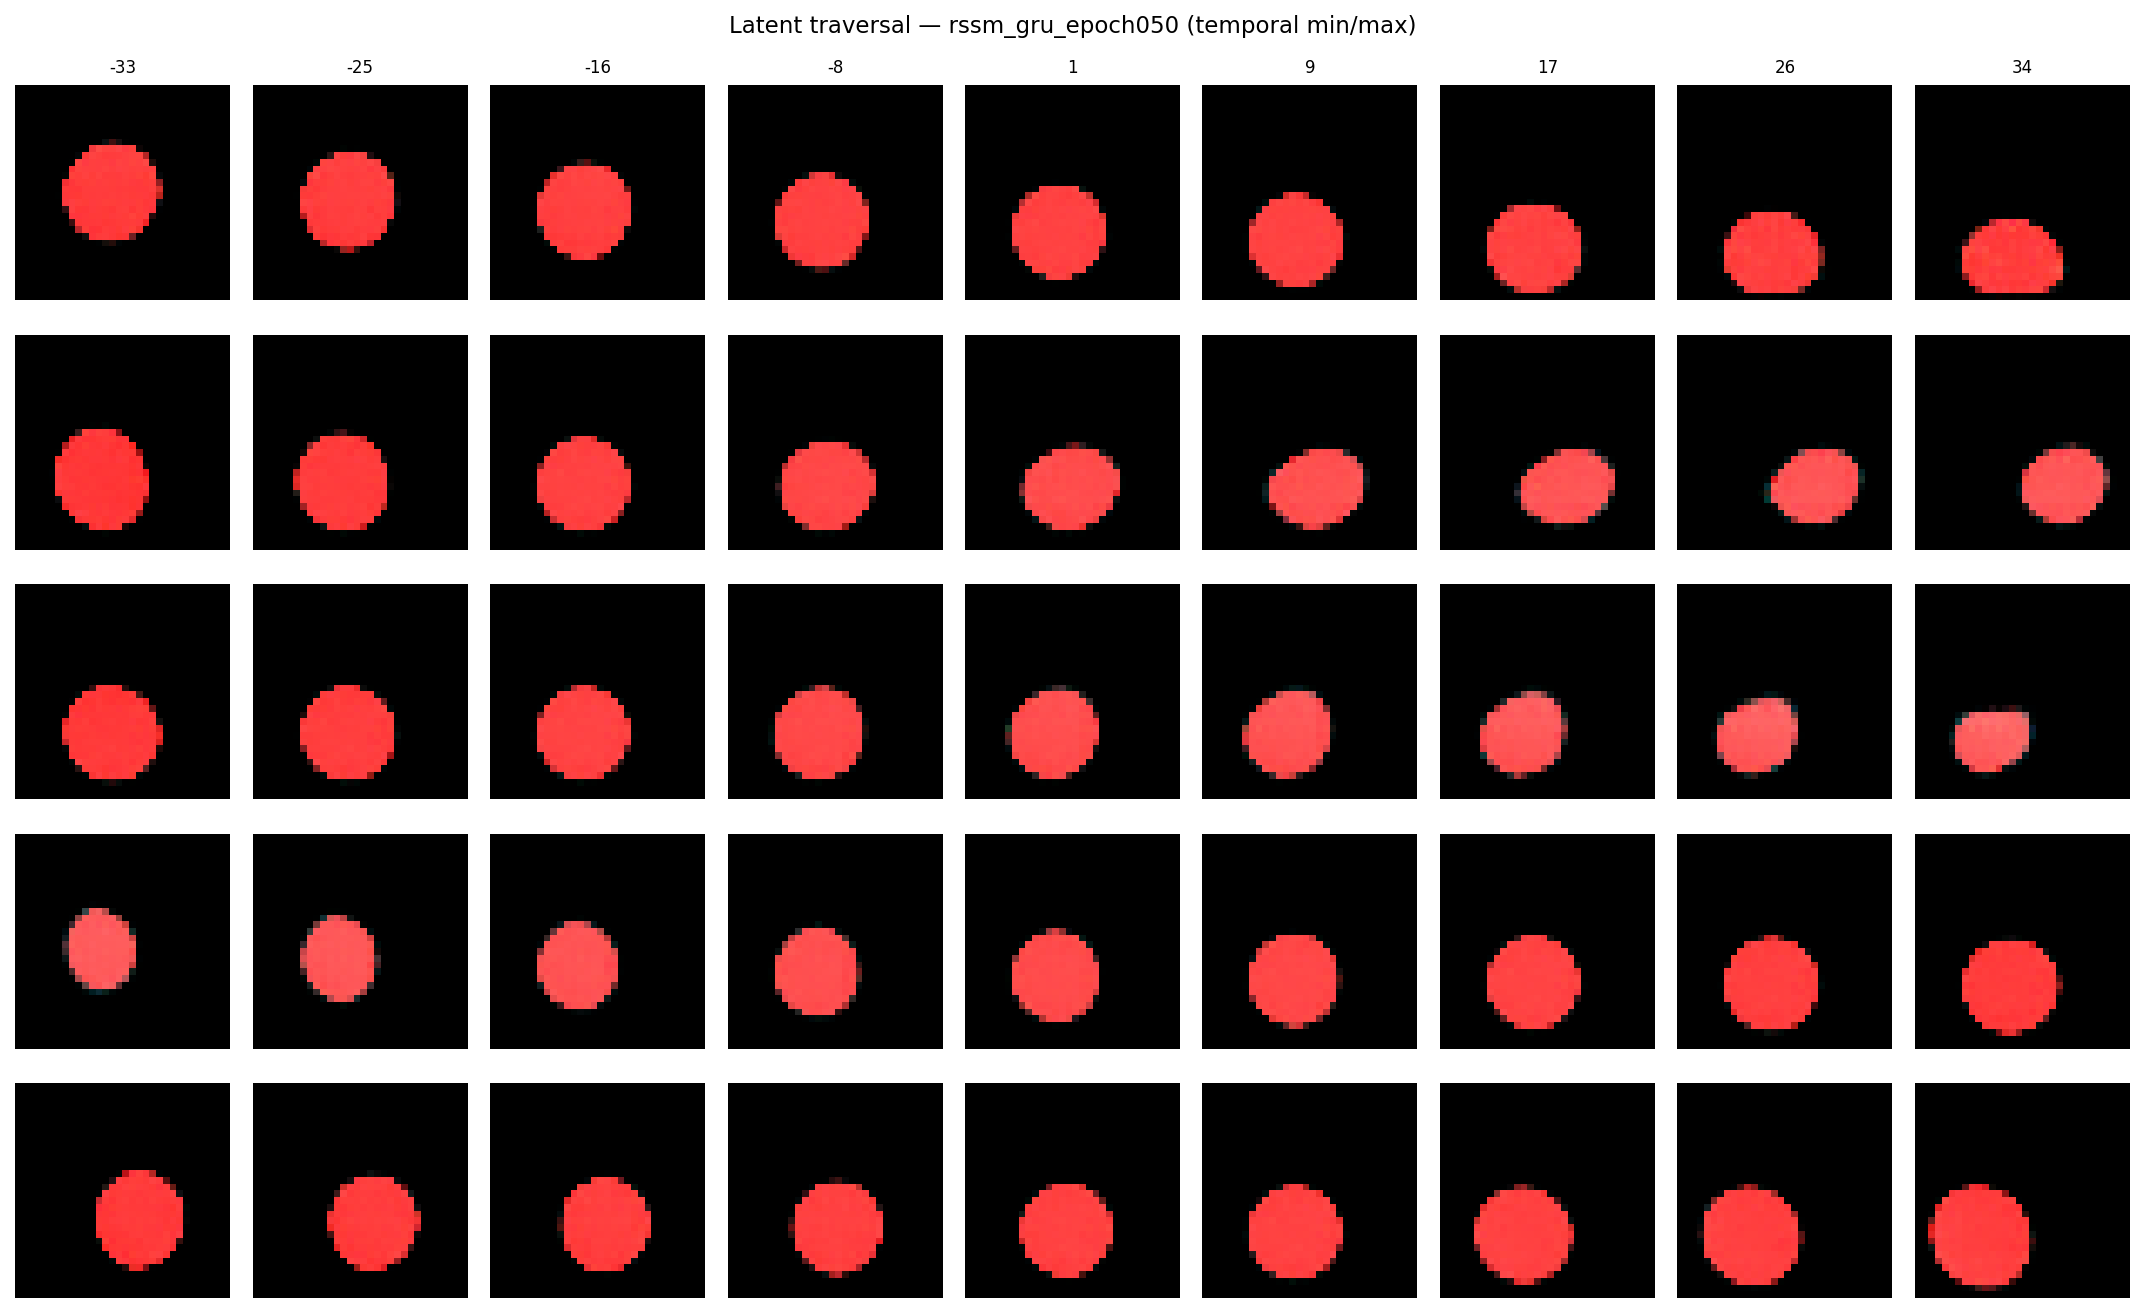
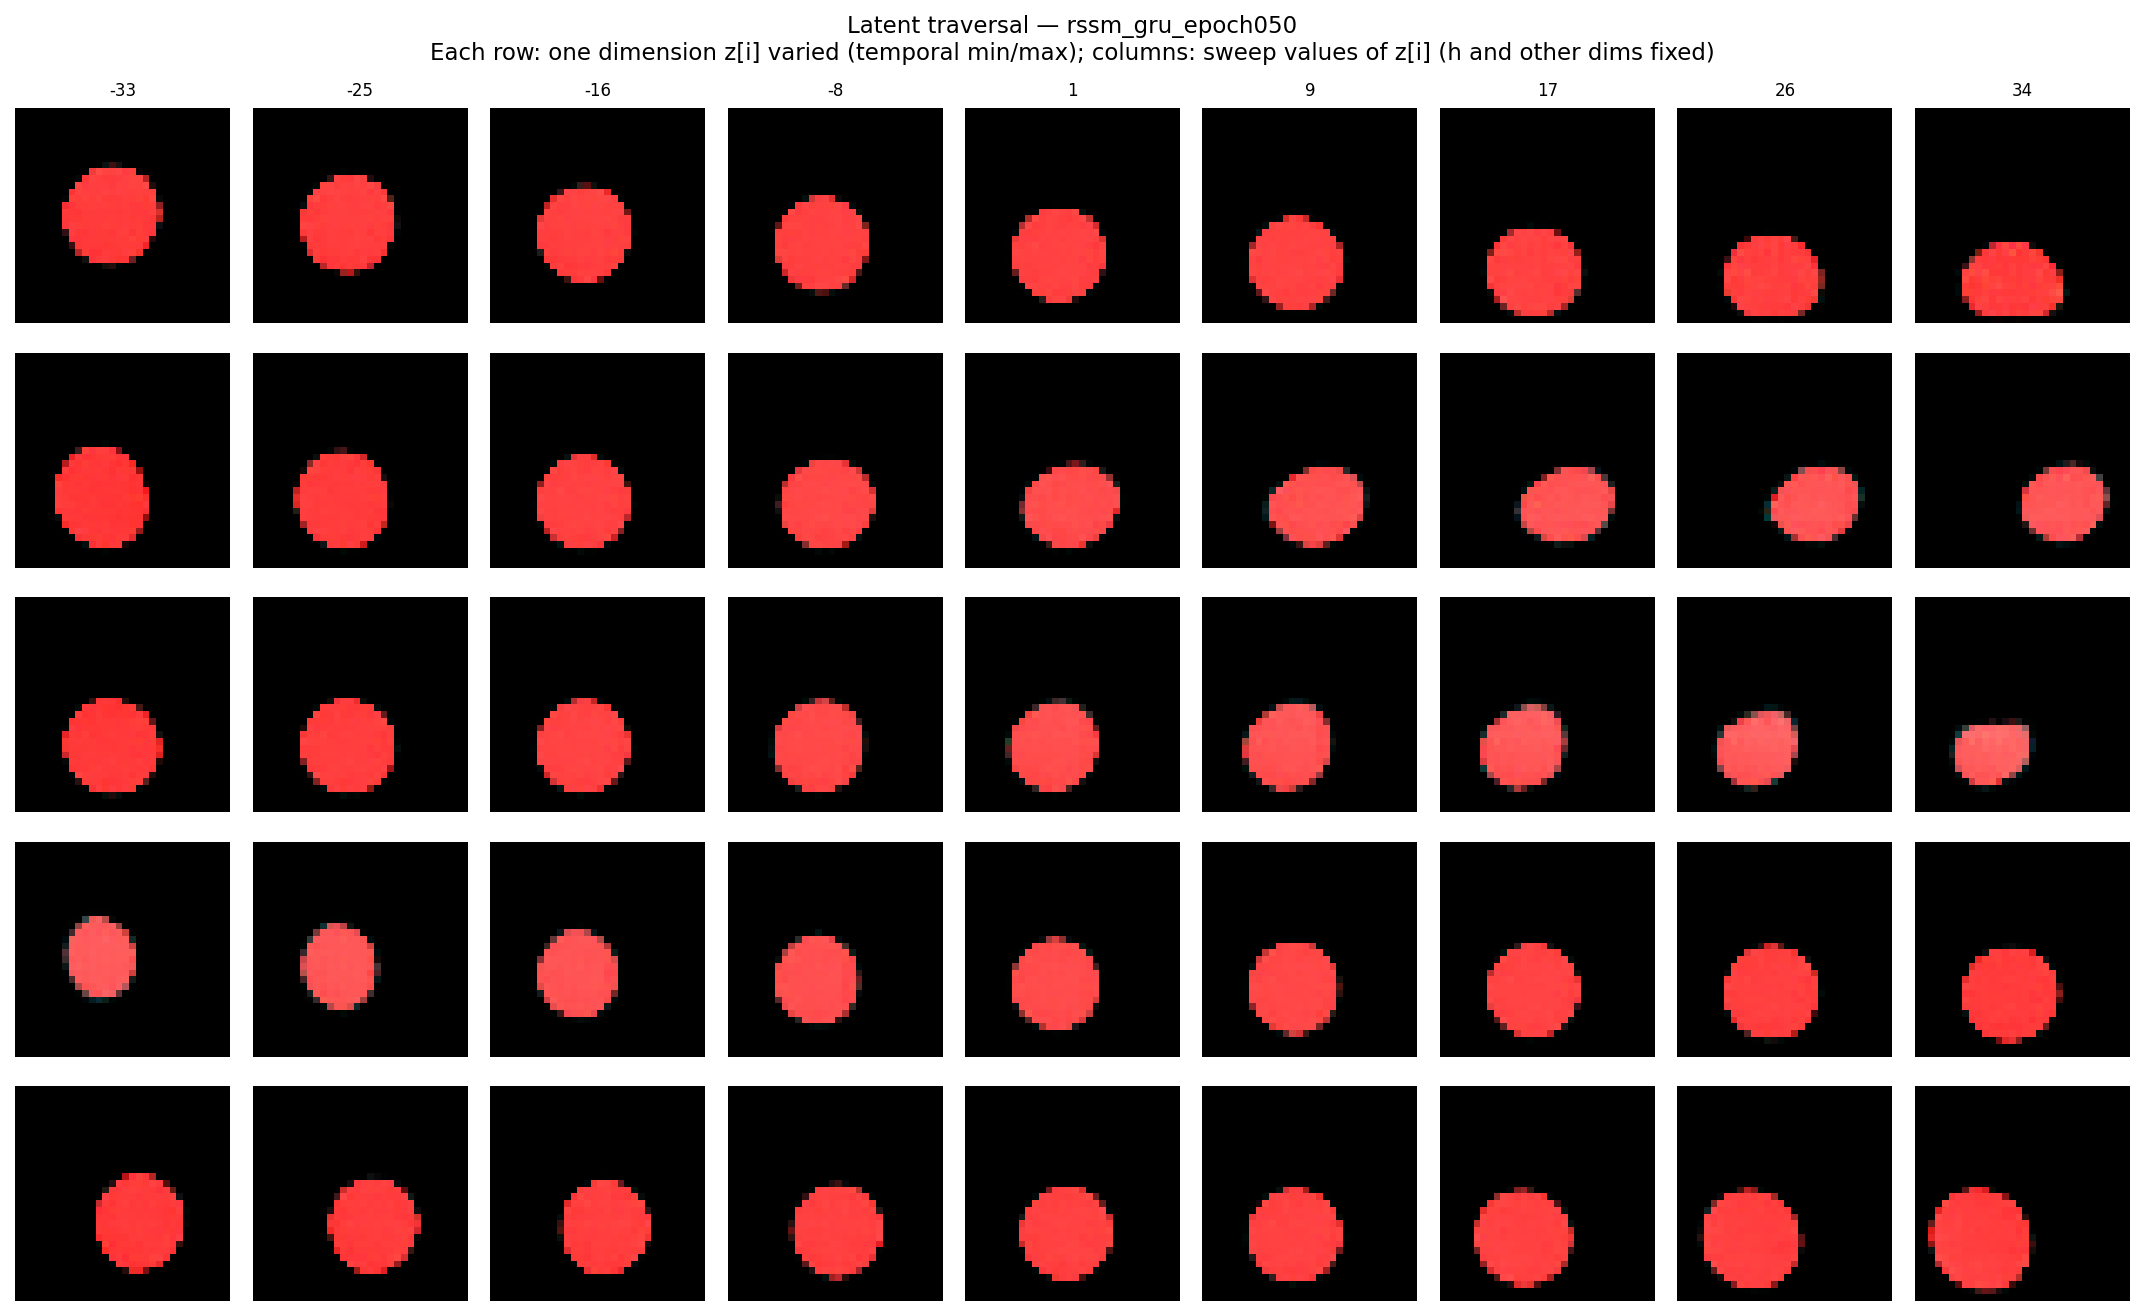
fix : latent_transversal plot's title

diff --git a/interpretability/latent_traversal.py b/interpretability/latent_traversal.py
@@ -164,7 +164,12 @@ def run_traversal(args: argparse.Namespace) -> None:
             )
 
     mode_label = "temporal min/max" if args.range_mode == "temporal" else "posterior σ"
-    fig.suptitle(f"Latent traversal — {stem} ({mode_label})", fontsize=11)
+    fig.suptitle(
+        f"Latent traversal — {stem}\n"
+        f"Each row: one dimension z[i] varied ({mode_label}); "
+        f"columns: sweep values of z[i] (h and other dims fixed)",
+        fontsize=11,
+    )
     fig.tight_layout()
     grid_path = out_dir / f"latent_traversal_{stem}.png"
     fig.savefig(grid_path, dpi=150, bbox_inches="tight")
